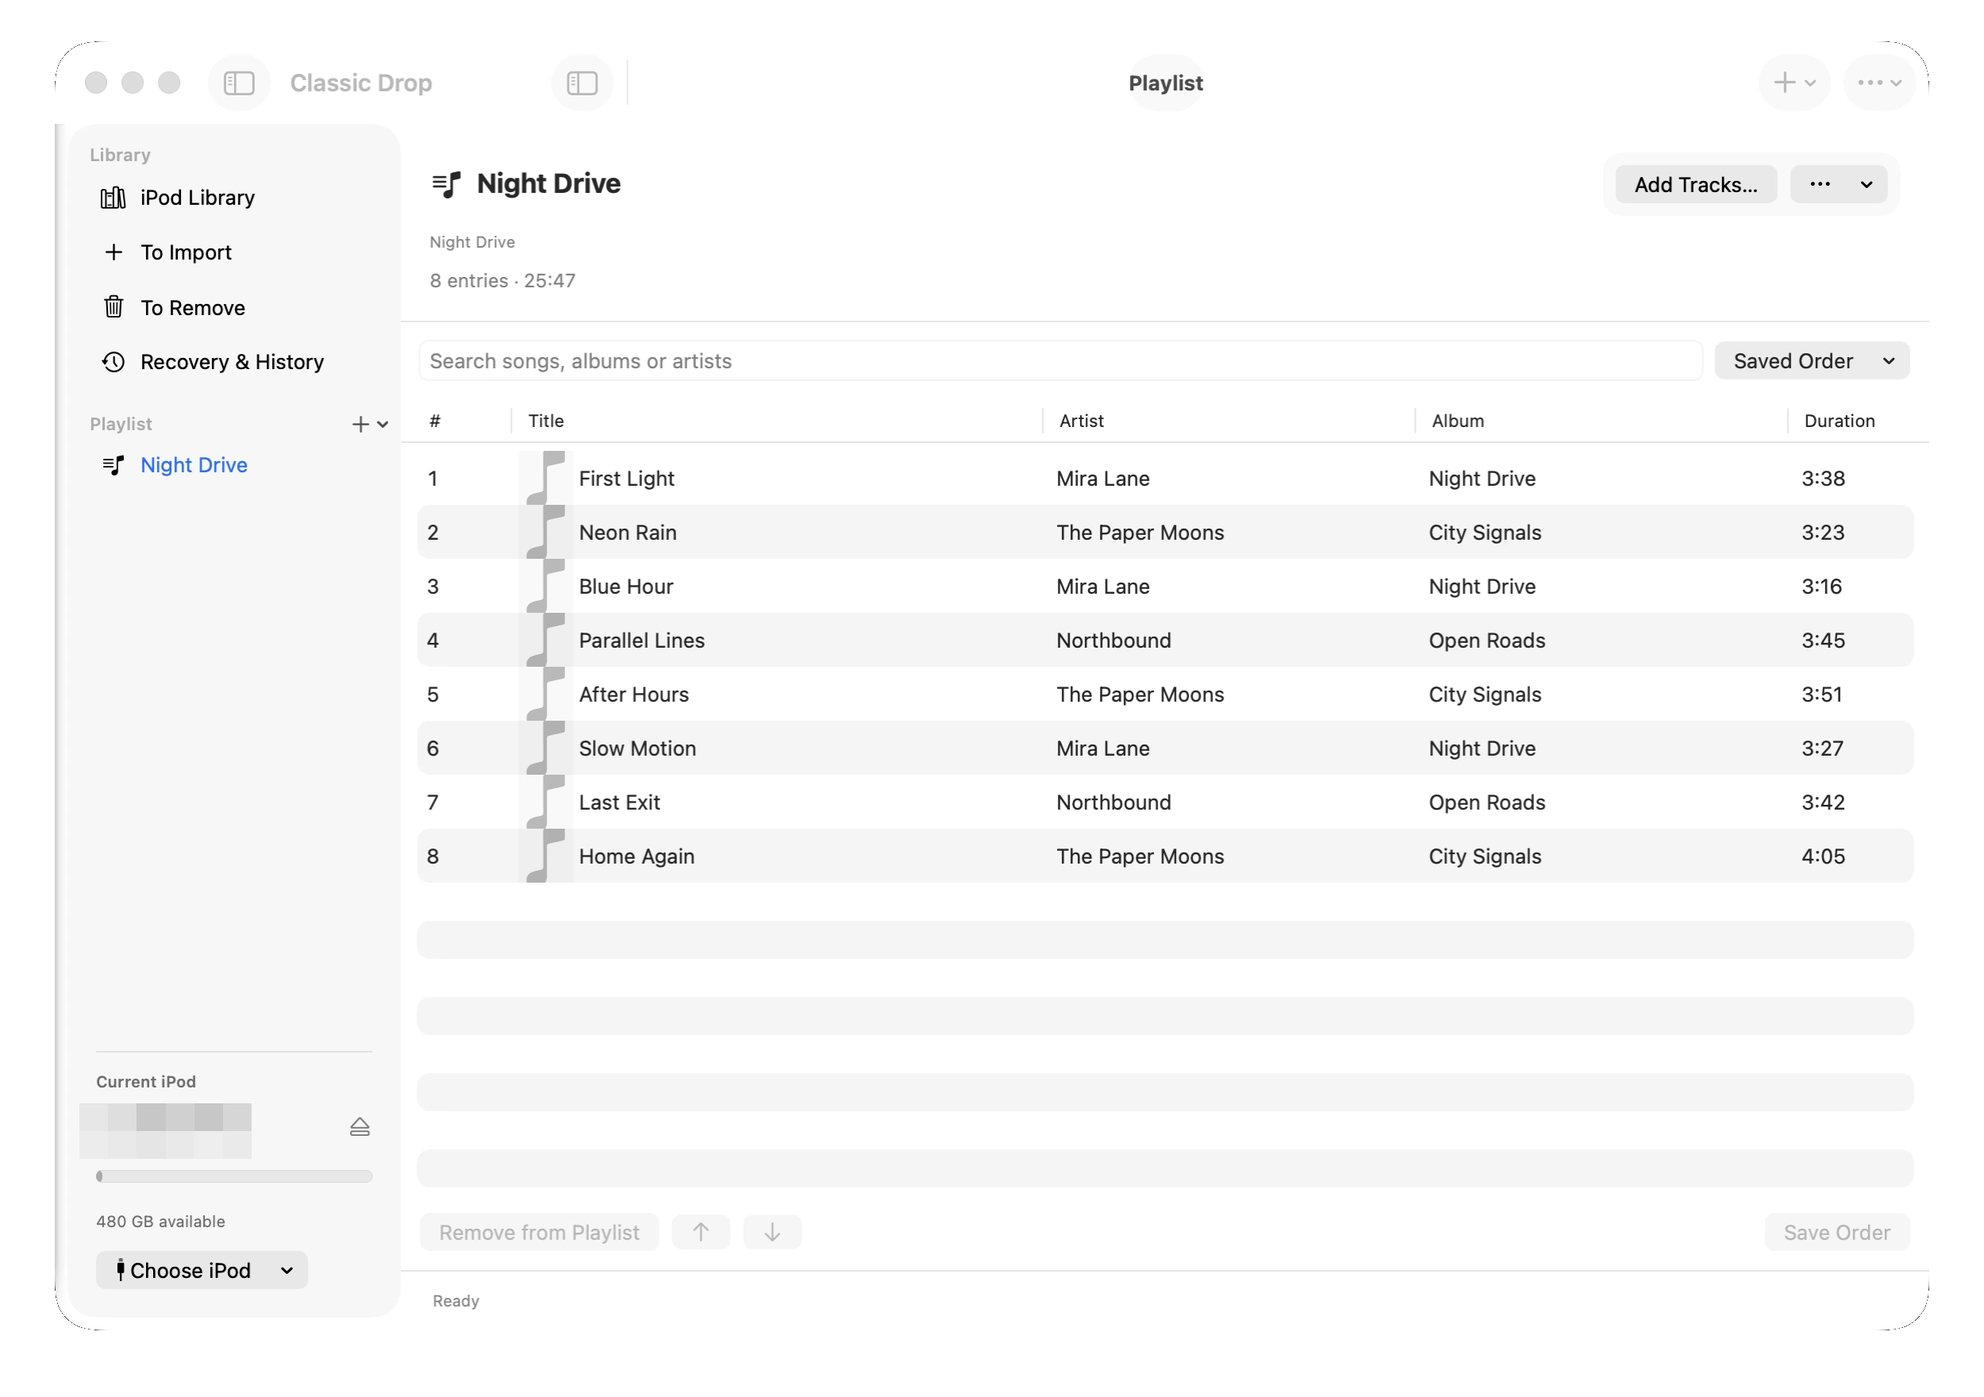
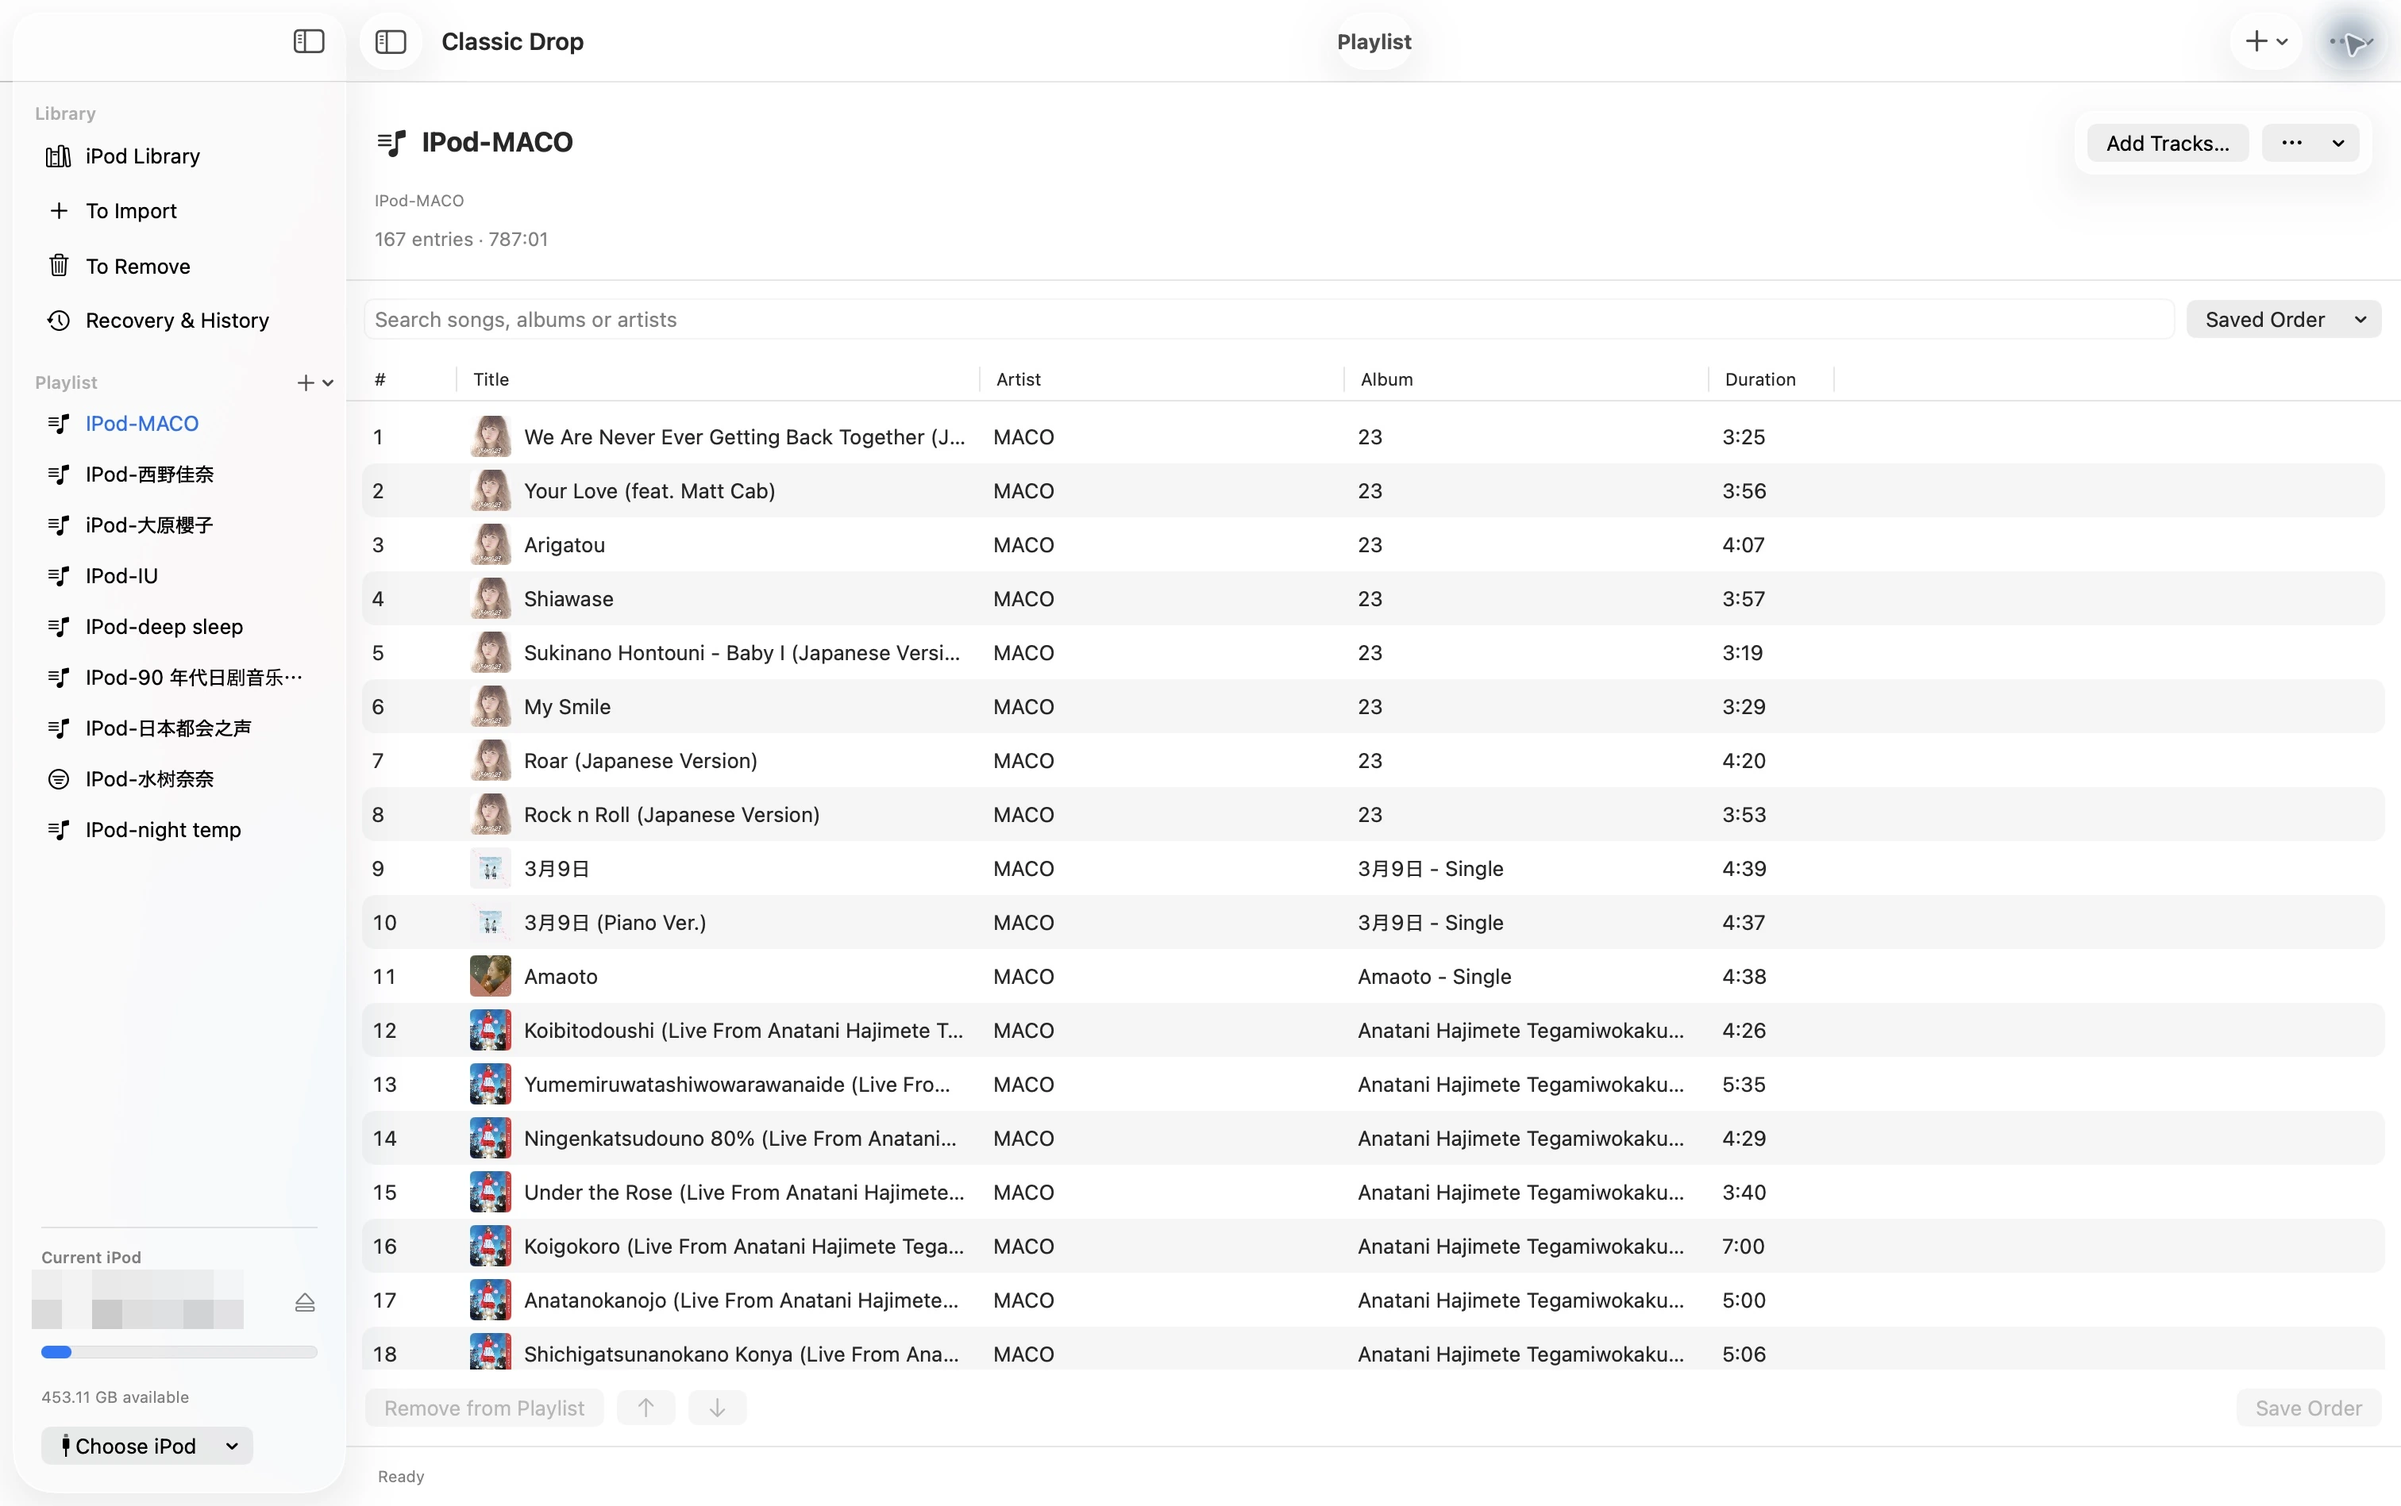
Capture real iPod playlists without window controls

diff --git a/README.ja.md b/README.ja.md
@@ -29,7 +29,7 @@ iPod に入っている音楽を残したまま、アルバムを数枚すばや
 
 ## スクリーンショット
 
-以下は、ネイティブ SwiftUI アプリを日本語で表示した実際のスクリーンショットです。[英語](README.md#screenshots)と[簡体字中国語](README.zh-CN.md#界面截图)の README では、同じワークスペースをそれぞれの言語で掲載しています。デバイス名と個人用パスには粗いモザイクをかけています。インポート準備には生成したデモ音声を、プレイリスト画面には合成したデモライブラリを使っています。撮影中にインポート・削除・復元は実行していません。
+以下は、ネイティブ SwiftUI アプリを日本語で表示した実際のスクリーンショットです。[英語](README.md#screenshots)と[簡体字中国語](README.zh-CN.md#界面截图)の README では、同じワークスペースをそれぞれの言語で掲載しています。デバイス名と個人用パスには粗いモザイクをかけています。インポート準備には生成したデモ音声を、プレイリスト画面には接続した iPod の実際のライブラリを表示しています。撮影中にインポート・削除・復元は実行していません。
 
 ### アルバムライブラリとアートワークインスペクタ
 
@@ -53,7 +53,7 @@ iPod に入っている音楽を残したまま、アルバムを数枚すばや
 
 サイドバーに表示されたプレイリストと、その収録曲を確認できます。
 
-![Night Drive プレイリストと収録曲を表示した日本語の画面](docs/classic-drop/screenshots/playlist-ja.webp)
+![IPod-MACO プレイリストと収録曲を表示した日本語の画面](docs/classic-drop/screenshots/playlist-ja.webp)
 
 ### 削除リストと絞り込み
 

diff --git a/README.md b/README.md
@@ -29,7 +29,7 @@ It is designed for people who want to keep the music already on an iPod, add a f
 
 ## Screenshots
 
-Actual screenshots of the native SwiftUI app, with English UI below. The [Chinese](README.zh-CN.md#界面截图) and [Japanese](README.ja.md#スクリーンショット) READMEs show the same workspaces in their respective languages. Device names and personal paths are covered with coarse mosaic. Import preparation uses generated demo audio, and the playlist workspace uses a synthetic demo library; no import, removal, or restore was executed for these screenshots.
+Actual screenshots of the native SwiftUI app, with English UI below. The [Chinese](README.zh-CN.md#界面截图) and [Japanese](README.ja.md#スクリーンショット) READMEs show the same workspaces in their respective languages. Device names and personal paths are covered with coarse mosaic. Import preparation uses generated demo audio, and the playlist workspace shows the connected iPod; no import, removal, or restore was executed for these screenshots.
 
 ### Album library and artwork inspector
 
@@ -53,7 +53,7 @@ Review selected files, artwork, editable tags, and the original-ALAC option befo
 
 Review a playlist and its tracks, with the playlist visible in the sidebar.
 
-![English playlist workspace showing the Night Drive playlist and its tracks](docs/classic-drop/screenshots/playlist-en.webp)
+![English playlist workspace showing the IPod-MACO playlist and its tracks](docs/classic-drop/screenshots/playlist-en.webp)
 
 ### Removal package and filters
 

diff --git a/README.zh-CN.md b/README.zh-CN.md
@@ -29,7 +29,7 @@ Classic Drop 是一款原生 macOS 音乐导入工具，面向运行 **Apple 原
 
 ## 界面截图
 
-以下为原生 SwiftUI 应用的实际简体中文界面截图。[英文](README.md#screenshots)和[日文](README.ja.md#スクリーンショット) README 分别展示对应语言的相同工作区。设备名称和个人路径均已打上粗颗粒马赛克。导入准备使用生成的演示音频，播放列表工作区使用合成的演示曲库；截图过程中未执行导入、移除或恢复。
+以下为原生 SwiftUI 应用的实际简体中文界面截图。[英文](README.md#screenshots)和[日文](README.ja.md#スクリーンショット) README 分别展示对应语言的相同工作区。设备名称和个人路径均已打上粗颗粒马赛克。导入准备使用生成的演示音频，播放列表工作区展示已连接 iPod 的实际曲库；截图过程中未执行导入、移除或恢复。
 
 ### 专辑曲库与封面检查器
 
@@ -53,7 +53,7 @@ Classic Drop 是一款原生 macOS 音乐导入工具，面向运行 **Apple 原
 
 查看播放列表及其曲目，侧栏中也能看到该播放列表。
 
-![简体中文播放列表工作区，展示 Night Drive 播放列表及其中的曲目](docs/classic-drop/screenshots/playlist-zh-CN.webp)
+![简体中文播放列表工作区，展示 IPod-MACO 播放列表及其中的曲目](docs/classic-drop/screenshots/playlist-zh-CN.webp)
 
 ### 移除列表与筛选
 

diff --git a/docs/classic-drop/screenshots/README.md b/docs/classic-drop/screenshots/README.md
@@ -1,15 +1,16 @@
 # README screenshots
 
 The original workspace images were captured from the native SwiftUI application at
-source revision `14063ac` on macOS. The Playlist demo was captured from the current
-native SwiftUI workspace. The release native shell used the documented source
+source revision `14063ac` on macOS. The Playlist images were captured from source revision `a04d21d` using a
+connected iPod in the native SwiftUI workspace, in full screen without macOS window
+controls. The release native shell used the documented source
 Python helper for its original captures.
 
 Each workspace has English (`en`), Simplified Chinese (`zh-CN`), and Japanese (`ja`)
 versions: album library, album details, import preparation, Playlist, and Removal
 Package. The library views show a connected iPod. Import preparation uses generated
-demo audio and artwork. Playlist uses a synthetic demo library so its selected
-playlist and tracks are visible in the sidebar and table. No import, removal, or
+demo audio and artwork. Playlist shows an existing iPod Playlist with its actual
+Tracks and artwork visible in the sidebar and table. No import, removal, or
 restore was executed for the screenshots; the temporary import queue and Removal
 Package were cleared afterward.
 
